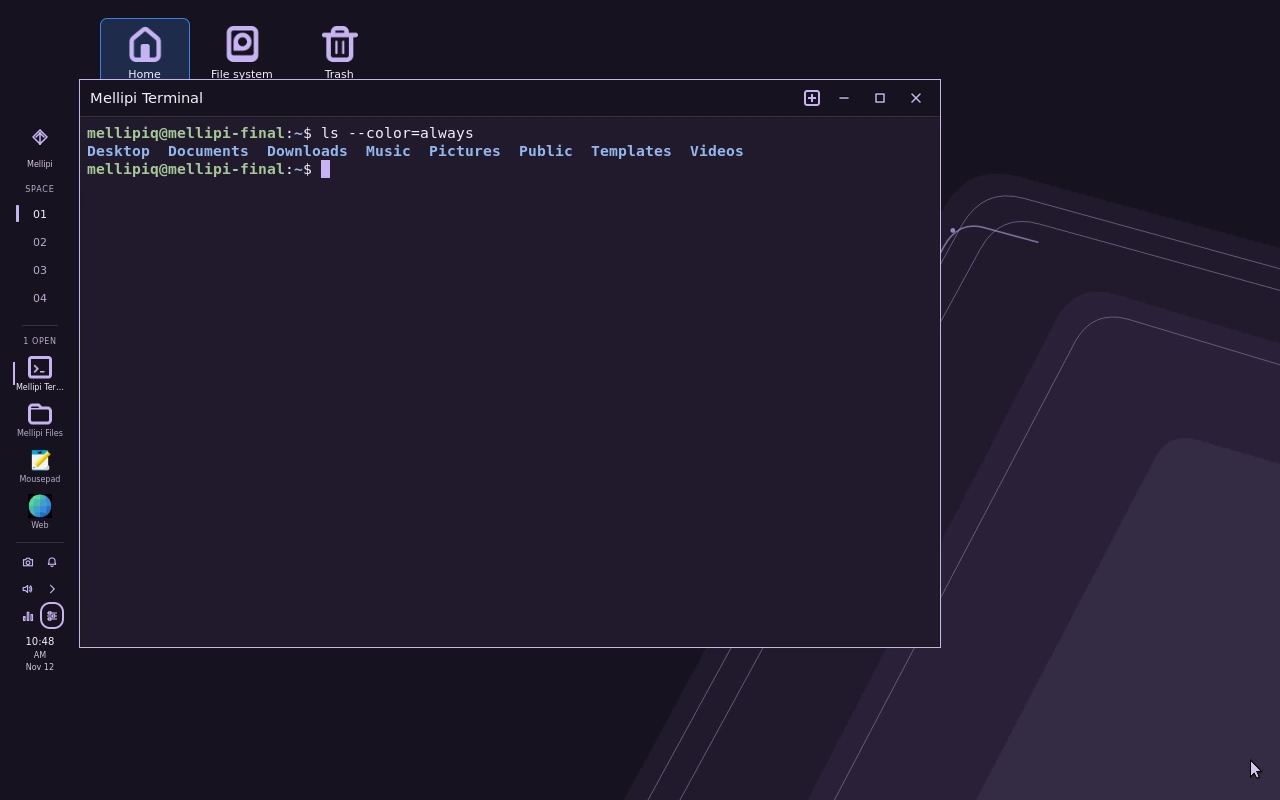
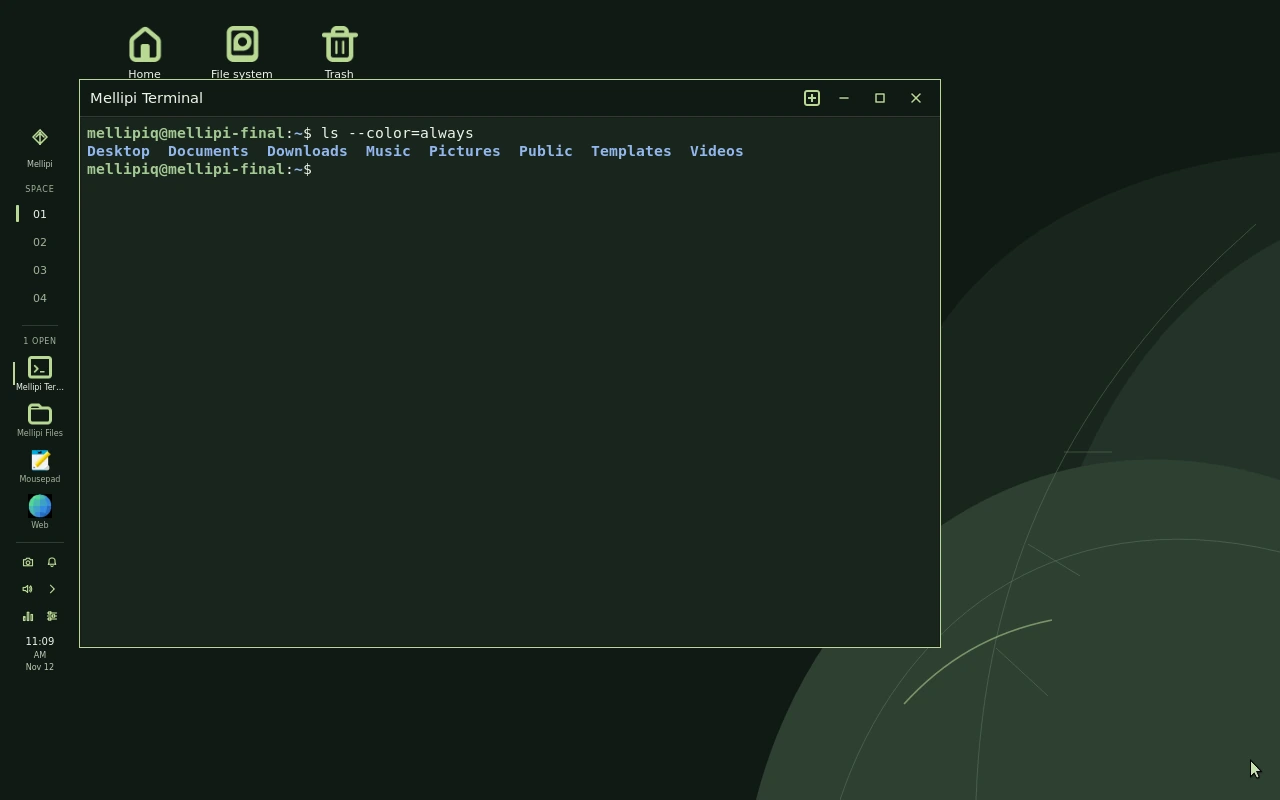
Use the Forest theme throughout the desktop tour

diff --git a/public/index.html b/public/index.html
@@ -47,18 +47,18 @@
 <section id="desktop-tour" class="screenshots wrap" aria-labelledby="desktop-tour-title">
   <div class="screenshot-heading">
     <h2 id="desktop-tour-title">A closer look</h2>
-    <p>Open any capture at full size.</p>
+    <p>Four desktop workflows in the Forest theme.</p>
   </div>
   <div class="screenshot-grid">
-    <a class="screenshot-card" href="assets/tour/files.webp" target="_blank" rel="noopener" aria-label="View Files at full size">
+    <a class="screenshot-card" href="assets/tour/files.webp?v=forest" target="_blank" rel="noopener" aria-label="View Files at full size">
       <figure>
-        <img src="assets/tour/files.webp" width="1280" height="800" loading="lazy" decoding="async" alt="Mellipi Files showing the home folders and places sidebar.">
+        <img src="assets/tour/files.webp?v=forest" width="1280" height="800" loading="lazy" decoding="async" alt="Mellipi Files showing the home folders and places sidebar.">
         <figcaption><span><strong>Files</strong><small>Browse folders and drives</small></span><span class="screenshot-expand">View full size <span aria-hidden="true">↗</span></span></figcaption>
       </figure>
     </a>
-    <a class="screenshot-card" href="assets/tour/terminal.webp" target="_blank" rel="noopener" aria-label="View Terminal at full size">
+    <a class="screenshot-card" href="assets/tour/terminal.webp?v=forest" target="_blank" rel="noopener" aria-label="View Terminal at full size">
       <figure>
-        <img src="assets/tour/terminal.webp" width="1280" height="800" loading="lazy" decoding="async" alt="Mellipi Terminal showing a short command in the test session.">
+        <img src="assets/tour/terminal.webp?v=forest" width="1280" height="800" loading="lazy" decoding="async" alt="Mellipi Terminal showing a short command in the test session.">
         <figcaption><span><strong>Terminal</strong><small>Run commands and open tabs</small></span><span class="screenshot-expand">View full size <span aria-hidden="true">↗</span></span></figcaption>
       </figure>
     </a>

diff --git a/website/index.html b/website/index.html
@@ -47,18 +47,18 @@
 <section id="desktop-tour" class="screenshots wrap" aria-labelledby="desktop-tour-title">
   <div class="screenshot-heading">
     <h2 id="desktop-tour-title">A closer look</h2>
-    <p>Open any capture at full size.</p>
+    <p>Four desktop workflows in the Forest theme.</p>
   </div>
   <div class="screenshot-grid">
-    <a class="screenshot-card" href="assets/tour/files.webp" target="_blank" rel="noopener" aria-label="View Files at full size">
+    <a class="screenshot-card" href="assets/tour/files.webp?v=forest" target="_blank" rel="noopener" aria-label="View Files at full size">
       <figure>
-        <img src="assets/tour/files.webp" width="1280" height="800" loading="lazy" decoding="async" alt="Mellipi Files showing the home folders and places sidebar.">
+        <img src="assets/tour/files.webp?v=forest" width="1280" height="800" loading="lazy" decoding="async" alt="Mellipi Files showing the home folders and places sidebar.">
         <figcaption><span><strong>Files</strong><small>Browse folders and drives</small></span><span class="screenshot-expand">View full size <span aria-hidden="true">↗</span></span></figcaption>
       </figure>
     </a>
-    <a class="screenshot-card" href="assets/tour/terminal.webp" target="_blank" rel="noopener" aria-label="View Terminal at full size">
+    <a class="screenshot-card" href="assets/tour/terminal.webp?v=forest" target="_blank" rel="noopener" aria-label="View Terminal at full size">
       <figure>
-        <img src="assets/tour/terminal.webp" width="1280" height="800" loading="lazy" decoding="async" alt="Mellipi Terminal showing a short command in the test session.">
+        <img src="assets/tour/terminal.webp?v=forest" width="1280" height="800" loading="lazy" decoding="async" alt="Mellipi Terminal showing a short command in the test session.">
         <figcaption><span><strong>Terminal</strong><small>Run commands and open tabs</small></span><span class="screenshot-expand">View full size <span aria-hidden="true">↗</span></span></figcaption>
       </figure>
     </a>
